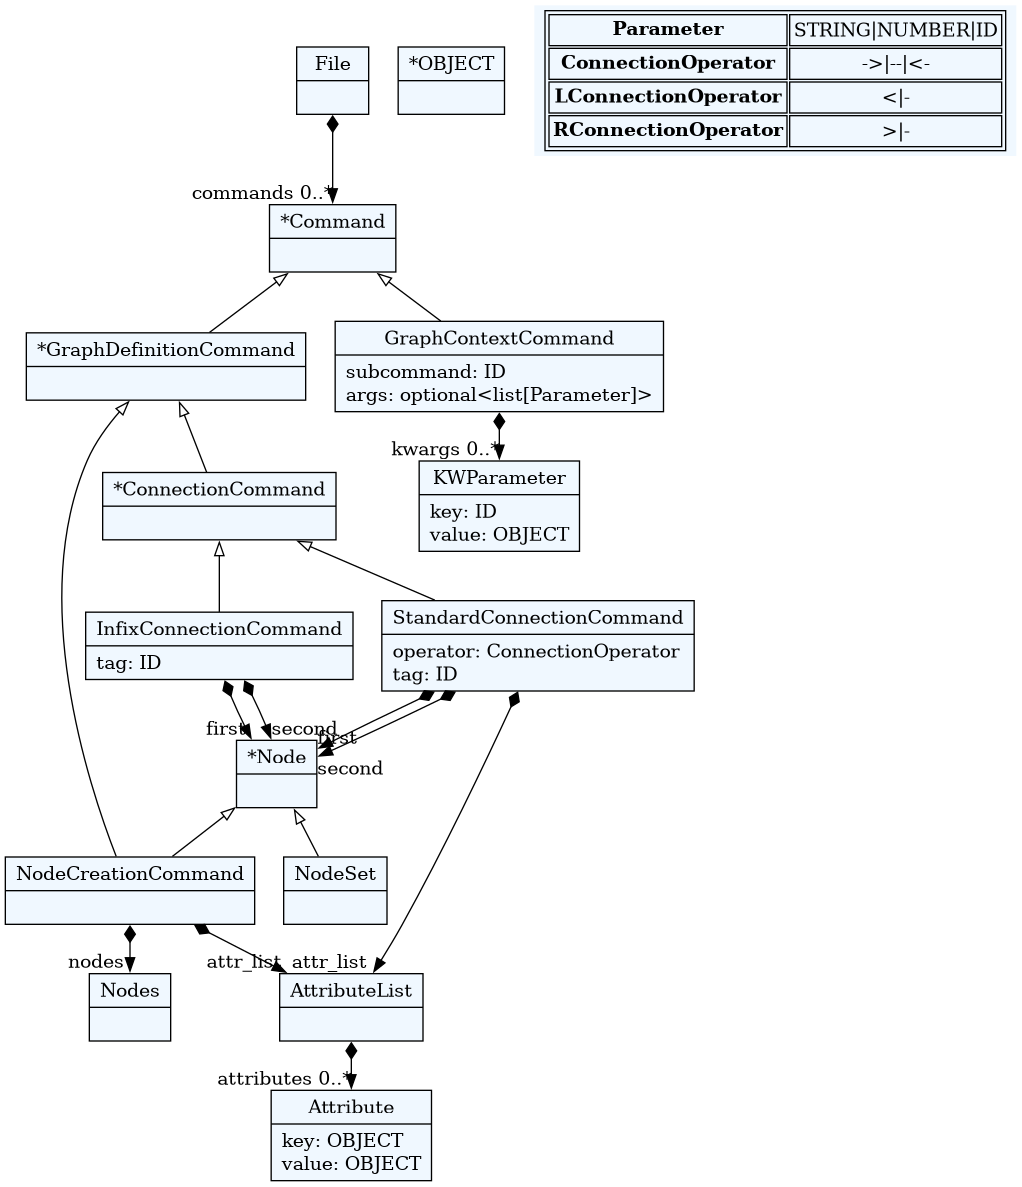
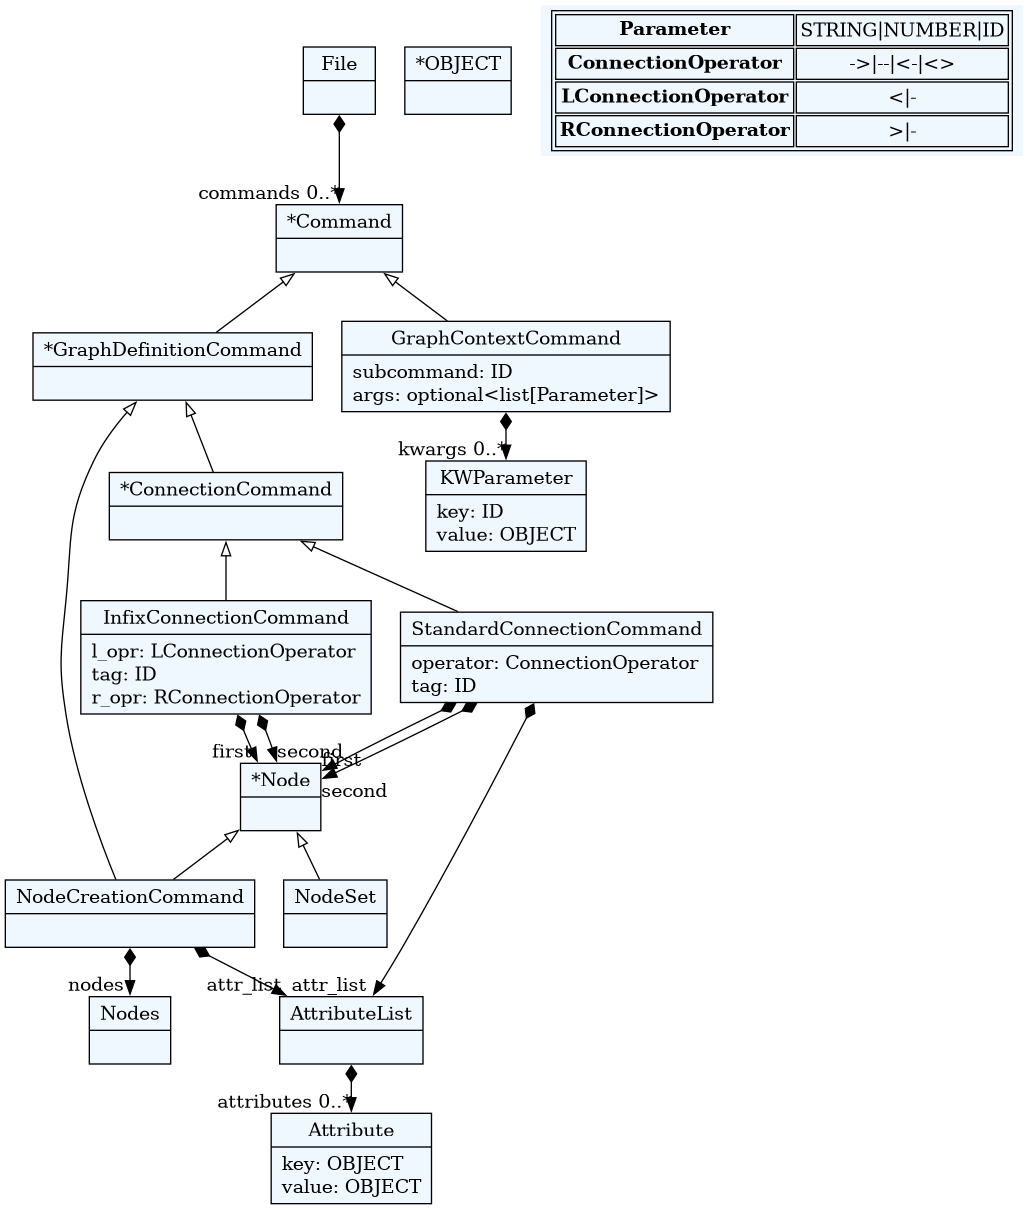
Fix: add ability to get operator for infix connections

Changed region(s): [[0.0, 0.0, 1.0, 0.9975], [0.455, 0.6234, 0.4853, 0.6858], [0.4247, 0.6858, 0.455, 0.7169]]

diff --git a/tests/test_creation_and_conn.py b/tests/test_creation_and_conn.py
@@ -108,3 +108,79 @@ def test_attributed(metamodel):
         expected_attributes={"tag": "sibling"},
         expected_operator="<-",
     )
+
+
+def test_mixed_node_sets(metamodel):
+    try:
+        model = metamodel.model_from_str(
+            """
+            node A, B -- {C, D} [tag: "group_connection"]
+            {E, F} -> (node G) [relation: "leader"]
+            H <> {I, J} team
+            """
+        )
+    except Exception as e:
+        assert False, f"Model parsing failed with exception: {e}"
+
+    commands = model.commands
+    assert len(commands) == 3, "Expected 3 commands in the model"
+
+    assert_connection(
+        commands[0],
+        expected_first_nodes={"A", "B"},
+        expected_second_nodes={"C", "D"},
+        expected_attributes={"tag": "group_connection"},
+        expected_operator="--",
+    )
+    assert_connection(
+        commands[1],
+        expected_first_nodes={"E", "F"},
+        expected_second_nodes={"G"},
+        expected_attributes={"relation": "leader"},
+        expected_operator="->",
+    )
+    assert_connection(
+        commands[2],
+        expected_first_nodes={"H"},
+        expected_second_nodes={"I", "J"},
+        expected_attributes={"tag": "team"},
+        expected_operator="<>",
+    )
+
+
+def test_infix_connections(metamodel):
+    try:
+        model = metamodel.model_from_str(
+            """
+            node A < friend > node B
+            {X, Y} - parent - (node Z)
+            P - sibling > {Q, R}
+            """
+        )
+    except Exception as e:
+        assert False, f"Model parsing failed with exception: {e}"
+
+    commands = model.commands
+    assert len(commands) == 3, "Expected 3 commands in the model"
+
+    assert_connection(
+        commands[0],
+        expected_first_nodes={"A"},
+        expected_second_nodes={"B"},
+        expected_attributes={"tag": "friend"},
+        expected_operator="<>",
+    )
+    assert_connection(
+        commands[1],
+        expected_first_nodes={"X", "Y"},
+        expected_second_nodes={"Z"},
+        expected_attributes={"tag": "parent"},
+        expected_operator="--",
+    )
+    assert_connection(
+        commands[2],
+        expected_first_nodes={"P"},
+        expected_second_nodes={"Q", "R"},
+        expected_attributes={"tag": "sibling"},
+        expected_operator="->",
+    )

diff --git a/gmlang/obj_processors.py b/gmlang/obj_processors.py
@@ -46,6 +46,9 @@ def process_standard_connection(cmd):
 
 
 def process_infix_connection(cmd):
+    cmd.operator = cmd.l_opr + cmd.r_opr
+    del cmd.l_opr
+    del cmd.r_opr
     process_tag(cmd)
 
 
